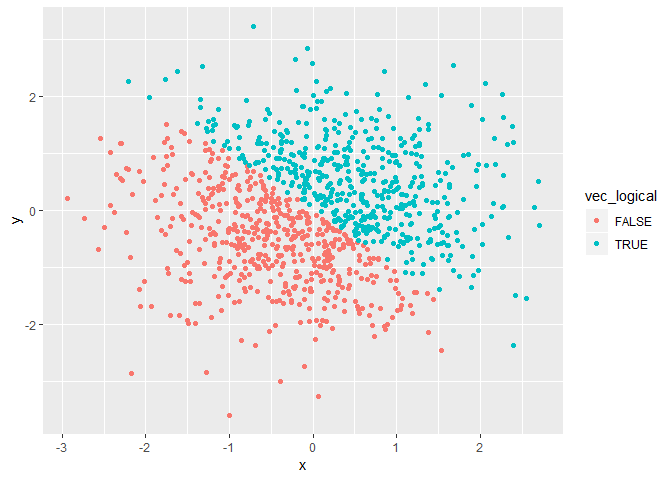
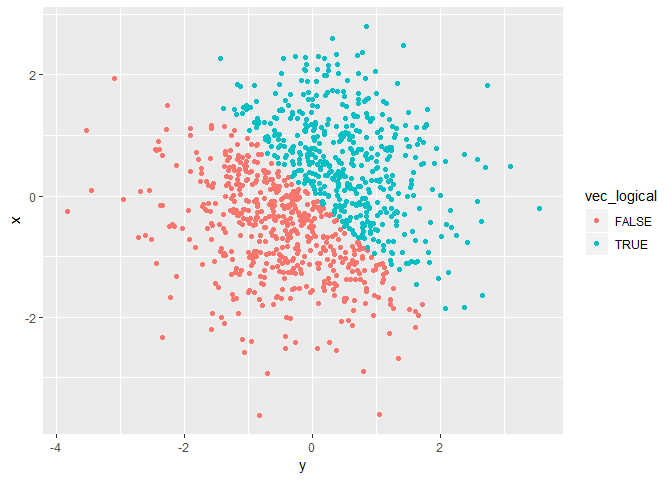
Created scatterplots for all logical, numeric and factor vectors.

diff --git a/P8105_HW1_BJL2150.md b/P8105_HW1_BJL2150.md
@@ -29,7 +29,7 @@ Problem1_df = tibble(
 mean(Problem1_df$x)
 ```
 
-    ## [1] 2.155009
+    ## [1] 2.343421
 
 ``` r
 # This works because it is numeric variable. 
@@ -42,7 +42,7 @@ mean(Problem1_df$x)
 mean(Problem1_df$vec_numeric)
 ```
 
-    ## [1] 0.5
+    ## [1] 0.6
 
 ``` r
 # Taking the mean of this equals 0.3. 
@@ -180,25 +180,45 @@ vec_factor = as.factor(Problem2_df$vec_logical)
 mean(x)
 ```
 
-    ## [1] -0.002238719
+    ## [1] -0.03794764
 
 ``` r
 median(x)
 ```
 
-    ## [1] 0.01310898
+    ## [1] -0.05228466
 
-The mean of the x is -0.0022387.
+``` r
+dim(x)
+```
 
-The median of the x is 0.013109.
+    ## NULL
+
+The mean of the x is -0.0379476.
+
+The median of the x is -0.0522847.
 
 The dataset size is dim
 
-Making Scatterplot
-------------------
+Scatterplots
+------------
 
 ``` r
-ggplot(Problem2_df, aes(y = y, x = x)) + geom_point(aes(color = vec_logical))
+# Making scatter plots for logical, numeric and factor vectors, respectively.
+
+ggplot(Problem2_df, aes(x = y, y = x)) + geom_point(aes(color = vec_logical))
 ```
 
 ![](P8105_HW1_BJL2150_files/figure-markdown_github/unnamed-chunk-10-1.png)
+
+``` r
+ggplot(Problem2_df, aes(x = y, y = x)) + geom_point(aes(color = vec_numeric))
+```
+
+![](P8105_HW1_BJL2150_files/figure-markdown_github/unnamed-chunk-10-2.png)
+
+``` r
+ggplot(Problem2_df, aes(x = y, y = x)) + geom_point(aes(color = vec_factor))
+```
+
+![](P8105_HW1_BJL2150_files/figure-markdown_github/unnamed-chunk-10-3.png)
